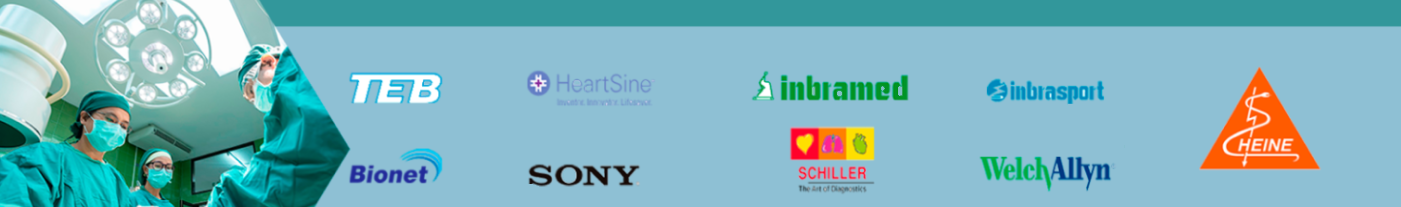
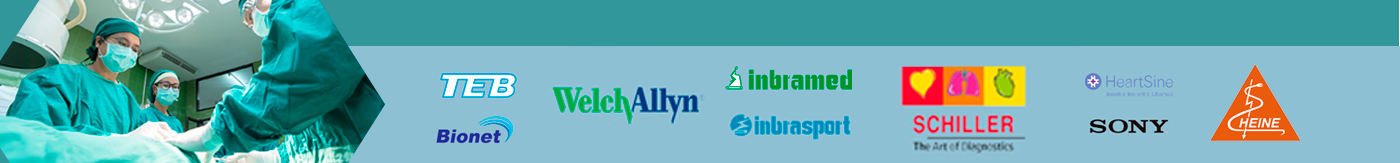
Versão demo1.

diff --git a/css/implstyle.css b/css/implstyle.css
@@ -3,7 +3,7 @@ html, #home {
 }
 body {
   margin-top: 80px;
-  height: 18%;
+  height: 10%;
   background: url(../imagens/capa1nova.png) no-repeat/*,
     url(../imagens/capafundo1.png),
     linear-gradient(50deg,#fffc41,#8ec0d4)*/;
